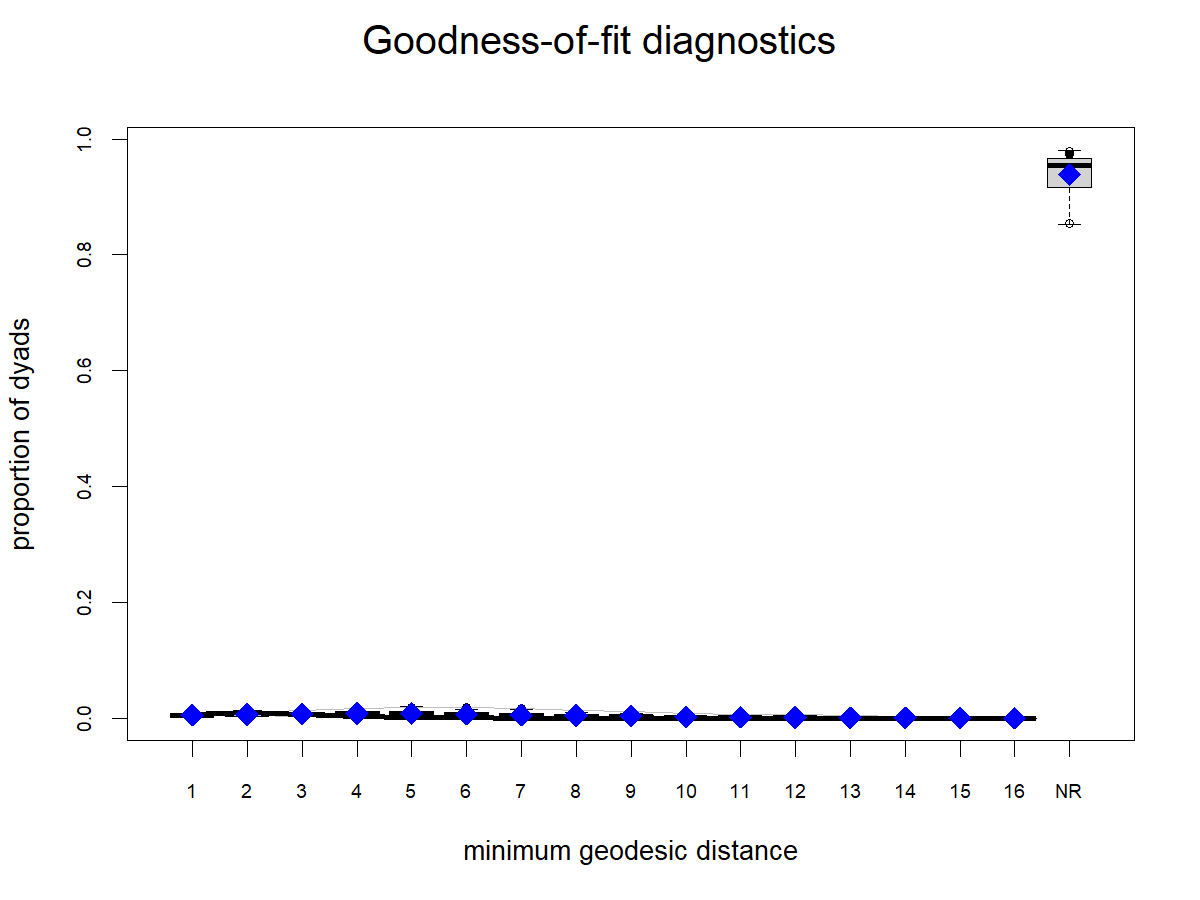
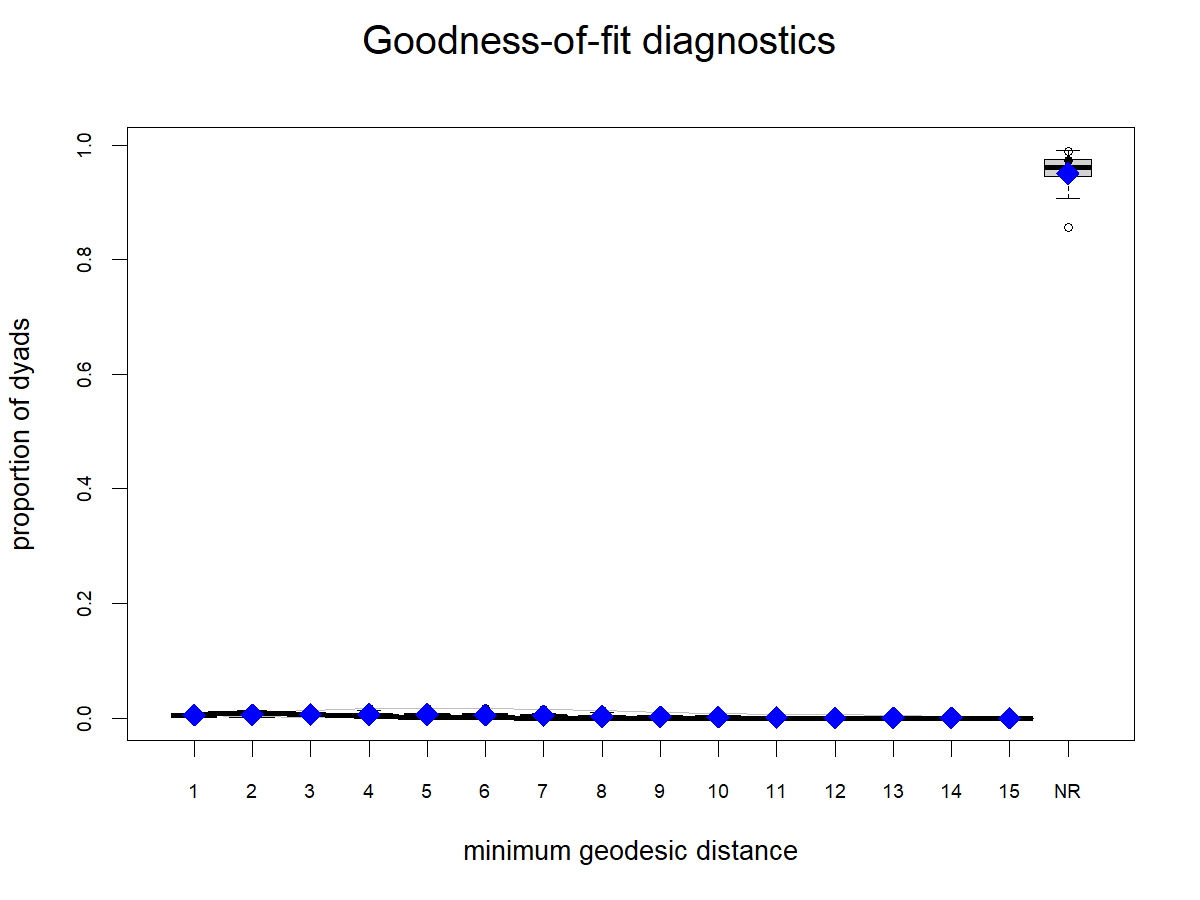
Refine ERGM report and GOF analysis

diff --git a/analysis/snap_ergm_descriptive_report.md b/analysis/snap_ergm_descriptive_report.md
@@ -4,20 +4,15 @@ This report prepares the **Inferential Modeling & Analysis (ERGM)** and **Relati
 
 The current work deliberately does **not** modify raw data, sampling, or network construction. The upstream data and network logic remain owned by the earlier pipeline scripts.
 
-## Scope and Interpretation
+## Analysis Focus
 
-The proposal's broader intuition is that public Venmo transactions may leak private relationship information through network position and neighbors' activity. For this assignment pass, the scope is narrower:
-
-- Use the existing ERGM-ready directed network.
-- Prepare descriptive network measures and relationship-strength proxies.
-- Fit and document staged ERGM screening models.
-- Exclude ALAAM, SAOM, REM, raw-data recoding, and new network construction.
+The proposal's broader intuition is that public Venmo transactions may leak private relationship information through network position and neighbors' activity. My part focuses on what can be learned from the ERGM-ready network after the data preparation and network construction steps are already complete.
 
 Because the committed network object does not include raw memo text, emoji, timestamps, or audience fields, this analysis cannot directly label romantic relationship status. Instead, it uses **structural and behavioral proxies** for relationship strength: repeated transactions, reciprocity, and shared-neighbor embeddedness. These proxies support a privacy-risk argument, but they are not ground-truth relationship labels.
 
-## Existing Network
+## Existing Analysis Network
 
-The existing network object is directed and contains 206 nodes and 289 directed edges. It is a tractable ERGM dataset, satisfying the course requirement that the analysis not try to model the full 7M-transaction graph directly.
+The existing network object is directed and contains 206 nodes and 289 directed edges. I treat this as the analysis handoff from the data/network-construction step rather than changing the sampling strategy here. Substantively, the smaller network is useful for this ERGM analysis because the question is local: can repeated, reciprocal, and embedded transaction ties reveal relationship strength within a public transaction neighborhood? The tradeoff is that this network can demonstrate a plausible privacy risk, but it should not be read as a population estimate for all Venmo users.
 
 Key descriptive results from `outputs/analysis/network_summary.csv`:
 
@@ -38,16 +33,6 @@ Key descriptive results from `outputs/analysis/network_summary.csv`:
 The network is sparse but connected in weak-component terms. The in-degree distribution is highly skewed, which matters for ERGM specification because simple edge and triangle terms alone are likely to underfit degree heterogeneity.
 
 ![Degree distribution](../outputs/analysis/figures/degree_distribution.png)
-
-## Scale-Down Rationale
-
-The full Public Venmo dataset is too large for a first-pass ERGM: it contains roughly 7 million public transactions and potentially millions of actors. ERGMs model the probability of the whole observed graph as a function of network statistics, so attempting to fit the full graph directly would make estimation expensive and would also obscure the local relationship-inference question.
-
-This analysis therefore uses the existing 206-node, 289-edge network object as a tractable analysis network. The scale-down is defensible for this assignment because the question is not whether we can estimate a population-level model for every Venmo user. The question is whether a local public transaction neighborhood can reveal relationship-strength signals even when relationship status is not explicitly disclosed. A smaller connected network is appropriate for that goal because reciprocity, repeated interaction, common-neighbor embeddedness, degree concentration, and closure are all local or meso-level mechanisms that ERGMs are designed to represent.
-
-The limitation is that this sample should not be treated as representative of the full Venmo population. It is best framed as a privacy-risk demonstration on a tractable sampled network. Final writing should explicitly say that the sample makes ERGM feasible while limiting generalizability.
-
-This scale-down logic is consistent with large-network ERGM literature. Pattison, Robins, Snijders, and Wang (2013) argue that full-network surveys in large populations can be prohibitively difficult and discuss conditional ERGM estimation from snowball/link-tracing designs. The current repo's network object is not re-sampled in this analysis pass, but it fits the same practical principle: use a local, analyzable network rather than forcing ERGM onto the full massive graph.
 
 ## Relationship Measures
 
@@ -98,7 +83,7 @@ The models are currently fit with MPLE for fast preparation and screening. Final
 
 This is why the current report labels the models as screening models. The statnet ERGM tutorial emphasizes that once dyad-dependent terms are included, final interpretation should come after MCMC convergence checks and goodness-of-fit assessment. The current outputs prepare that path by fitting the staged formulas, exporting coefficients, and saving an initial GOF figure for the most complete screening model.
 
-## ERGM Screening Results
+## ERGM Screening Results and Model Choice
 
 All four staged MPLE screening models fit successfully.
 
@@ -119,16 +104,29 @@ In the full closure model, the screening odds ratios are approximately:
 | `gwodeg.fixed.0.5` | 0.768 | 2.156 |
 | `gwesp.OTP.fixed.0.5` | 1.410 | 4.095 |
 
-These coefficients should be read as model-screening evidence, not final causal or inferential claims. The next step is to choose a stable final specification and estimate it with MCMLE.
+Among the screening models, M4 is the most defensible preferred specification. It has the lowest AIC/BIC among the staged models (M2 AIC = 3231, M3 AIC = 3128, M4 AIC = 2940), and it also matches the substantive story better than a simpler reciprocity-only model. The privacy concern is not only that two users pay each other back; it is that repeated and reciprocal ties sit inside a visible local neighborhood. Adding degree terms accounts for the skewed degree distribution, and adding `gwesp` captures whether ties cluster through shared partners.
 
-## To-Do List for Final Analysis
+M2 is still useful as a simpler baseline because the reciprocity effect is large and easy to interpret. M3 improves on M2 by accounting for degree concentration, but the out-degree term is not informative there. M4 is preferable for the current analysis because closure becomes strongly positive while reciprocity remains positive, suggesting that the observed transaction network contains both direct mutual exchange and local embeddedness.
 
-- Decide whether M4 is the preferred final ERGM specification or whether a simpler M2/M3 model is more defensible.
-- Refit the preferred model using MCMLE.
-- Run `mcmc.diagnostics()` and inspect trace/mixing behavior.
-- Run ERGM GOF checks for in-degree, out-degree, distance, and shared-partner structure.
-- Report how the sampled 206-node network makes ERGM tractable while limiting generalizability to the full Venmo graph.
-- Keep the interpretation focused on structural privacy leakage and relationship-strength inference, not verified relationship status.
+These coefficients should be read as model-screening evidence, not final causal claims. The standard errors come from MPLE, so a final paper should be careful not to overstate them as full MCMLE inference.
+
+## Goodness-of-Fit Checks
+
+I ran GOF checks for the preferred screening model, M4, using in-degree, out-degree, minimum geodesic distance, edgewise shared partners, and dyadwise shared partners. These checks ask whether networks simulated from the fitted model reproduce important observed structures beyond the exact statistics used to estimate the model.
+
+![M4 GOF diagnostics](../outputs/analysis/figures/m4_closure_gof.png)
+
+The GOF summary below reports the share of active observed categories that fall inside the simulated 95% interval from 30 simulated networks.
+
+| GOF check | Active categories within simulated 95% interval |
+|---|---:|
+| In-degree distribution | 57.1% |
+| Out-degree distribution | 72.7% |
+| Minimum geodesic distance | 90.9% |
+| Edgewise shared partners | 40.0% |
+| Dyadwise shared partners | 60.0% |
+
+This is a mixed but informative result. M4 captures the broad distance structure well and does reasonably on out-degree, but it does not fully reproduce the shared-partner distributions. That makes sense substantively: the same closure pattern that is central to relationship inference is also the hardest part of the network to fit cleanly. I would still prefer M4 over M2 or M3 for the current analysis because it directly models embeddedness and has better AIC/BIC, but I would describe it as the best screening specification rather than a finalized inferential model.
 
 ## References for ERGM Specification
 
